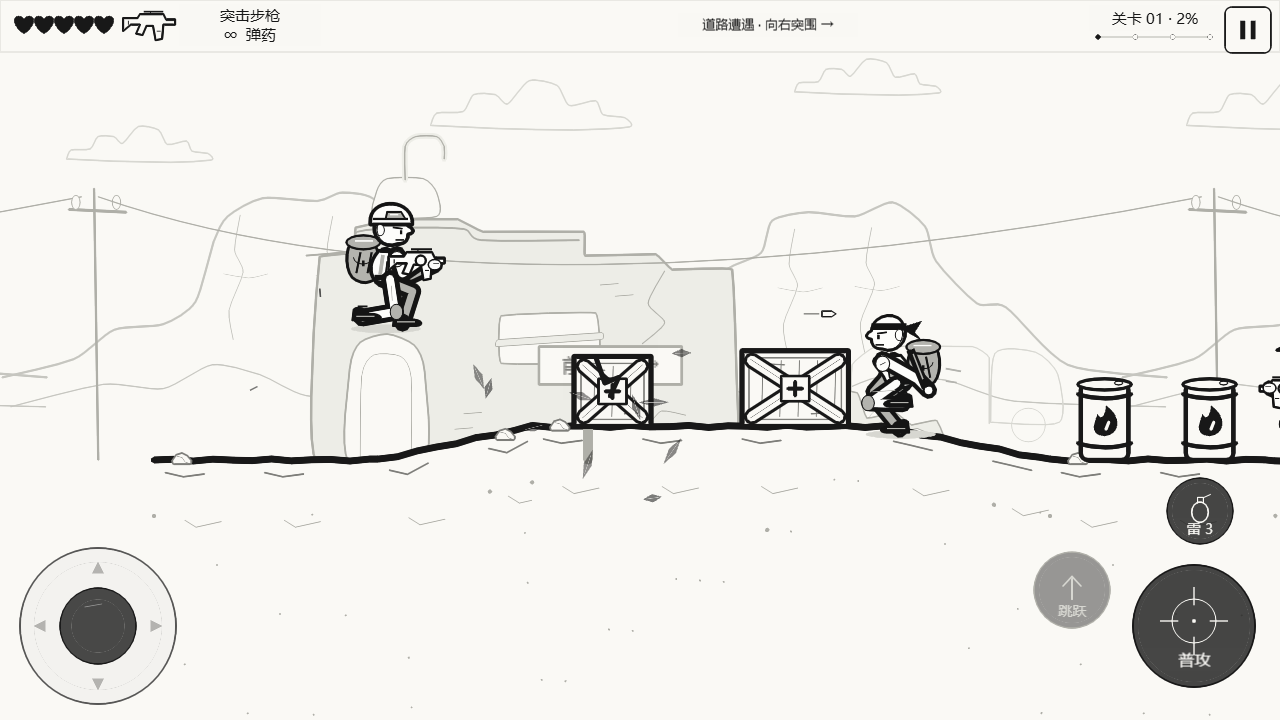
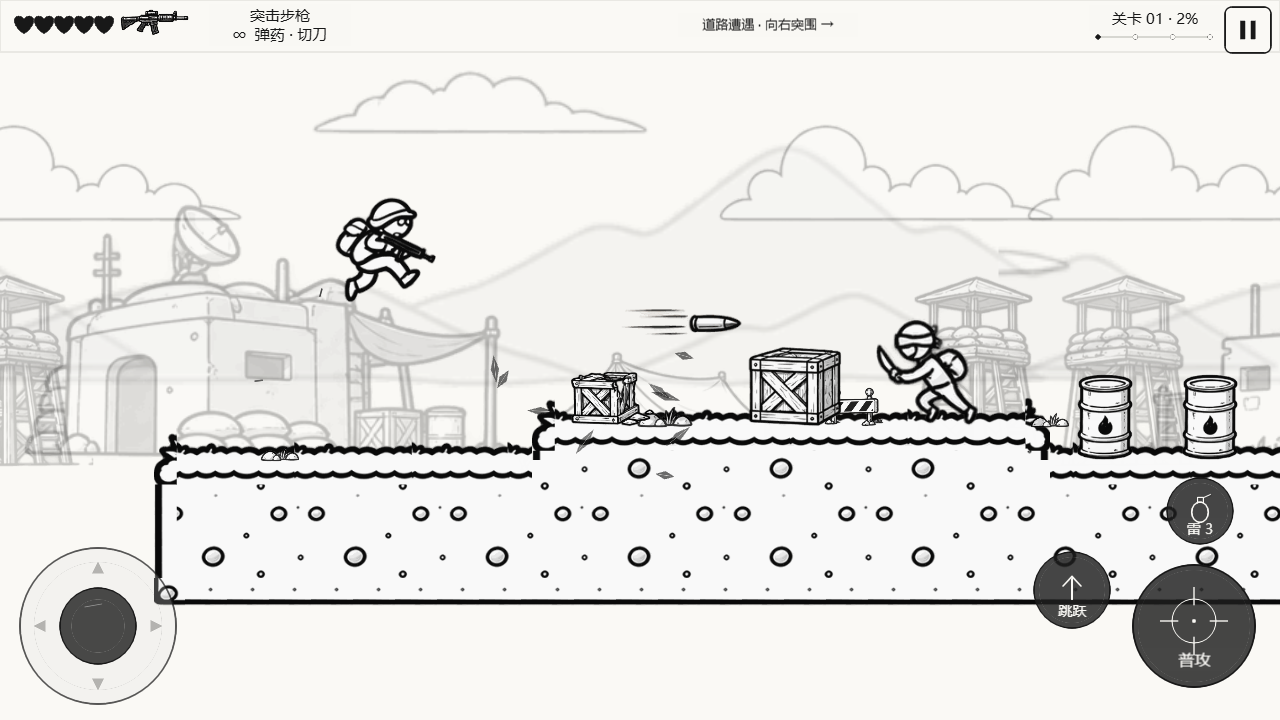
Record verified V0.5.7 GitHub Pages deployment

diff --git a/DEVELOPMENT.md b/DEVELOPMENT.md
@@ -2,13 +2,14 @@
 
 日期：2026-10-20。本轮针对最新4张用户素材，修复武器拼接和地图拼接；原有敌人、物理与战斗数值未削弱。详细映射与验收见 `art/V057-DELIVERY.md`。
 
-### 2026-10-28 GitHub Pages 发布准备
+### 2026-10-28 GitHub Pages 部署成功
 
 - 已确认远程仓库 `yangfan19900209/stickman-breakout` 与本地main同源且没有远程新增提交；Pages沿用 `main/docs`，不更换站点或发布方式。
 - 当前源码与既有V0.5.7浏览器修复验证指纹一致，重新通过严格类型检查、114项逻辑回归和交付检查。Web构建52文件/5,907,141字节，以原样复制到docs；源码和用户给定资源一并上传仓库，代码上传私钥保持工程外且不进入Git。
 - `prepare-pages.mjs` 适配本轮针对性浏览器验证报告，并在替换发布文件前检查源码指纹、构建文件数/总字节及构建时间；新增 `.gitattributes` 使docs内容不经Git换行转换，保持下载字节与Creator输出一致。
 - 发布目录在子路径 `/stickman-breakout/` 完成本地浏览器检查：PC键盘移动/跳跃/射击与暂停、844×390三点触控/松手、右侧空白射击、竖屏暂停/横屏恢复。52文件匹配，应用错误和失败请求均为0，见 `reports/github-pages-v057-local-verification.json`。此次没有重跑浏览器整关，也不代表真机验收。
-- 推送后的线上文件核对与同一操作检查将另存 `reports/github-pages-verification.json`。
[1 lines of base64/hex data omitted]
+- 正式站点52个文件全部下载并与本地发布文件逐字节匹配，PC移动/跳跃/射击/暂停、844×390三点触控/松手/右侧空白区射击、竖屏暂停与旋转恢复全部通过，应用错误和失败请求为0。报告 `reports/github-pages-verification.json`，截图 `reports/github-pages-desktop.png`、`reports/github-pages-mobile.png`、`reports/github-pages-portrait.png`；部署回执 `reports/github-pages-deployment-v057.json`。不将浏览器模拟手机视为真实设备验收。
 
 ### 2026-10-27 微信开发版本上传成功
 

diff --git a/README.md b/README.md
@@ -2,7 +2,7 @@
 
 真实 **Cocos Creator 3.8.8 + TypeScript** 黑白漫画横版射击工程，1280×720 横屏设计，继续使用原输入、物理、对象池和关卡。
 
-GitHub Pages 发布包（2026-10-28）：V0.5.7 当前Web构建已复制到 `docs`，52个文件逐字节一致，沿用 `main/docs` 发布源。严格类型检查、114项逻辑回归，以及该发布目录的启动、键盘移动/跳跃/射击、暂停恢复、手机横屏三点触控/松手、右侧空白区射击、竖屏暂停和旋转恢复均通过；本地验证见 [记录](reports/github-pages-v057-local-verification.json)。线上入口：[立即试玩](https://yangfan19900209.github.io/stickman-breakout/)。在线部署结果将在推送后单独记录。
+GitHub Pages 已部署（2026-10-28）：[立即试玩 V0.5.7](https://yangfan19900209.github.io/stickman-breakout/)。源码与网页包已推送到 `main`，沿用 `main/docs` 发布源，GitHub Pages构建与部署成功。线上52个文件与已验证Web构建逐字节一致；启动、键盘移动/跳跃/射击、暂停恢复、手机横屏三点触控/松手、右侧空白区射击、竖屏暂停和旋转恢复均通过，应用错误和失败请求为0。见 [线上验证](reports/github-pages-verification.json)、[部署记录](reports/github-pages-deployment-v057.json)及[本地发布目录验证](reports/github-pages-v057-local-verification.json)。本次重新通过严格类型检查和114项逻辑测试；手机检查为浏览器模拟，未测真实手机。
 
 微信上传状态（2026-10-27）：V0.5.7 已成功上传至 AppID `wx7d2aae02691fc088` 的小游戏开发版本，开发者YF、CI机器人1，微信返回整包3,096,380字节。上传前严格类型检查、114项逻辑回归与交付检查通过，源码指纹与已验证构建一致。首次因IP白名单被拒绝，用户添加并保存后使用同一构建重试成功；未提交审核或公开发布，微信真机未测。见 [成功回执](reports/wechat-upload-0.5.7.json)；[首次失败记录](reports/wechat-upload-0.5.7-20261027.json)和[历史0.5.3回执](reports/wechat-upload-0.5.3.json)分别保留。
 
